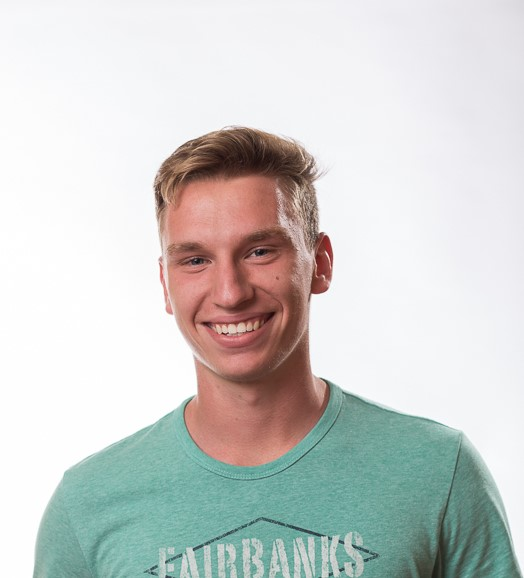
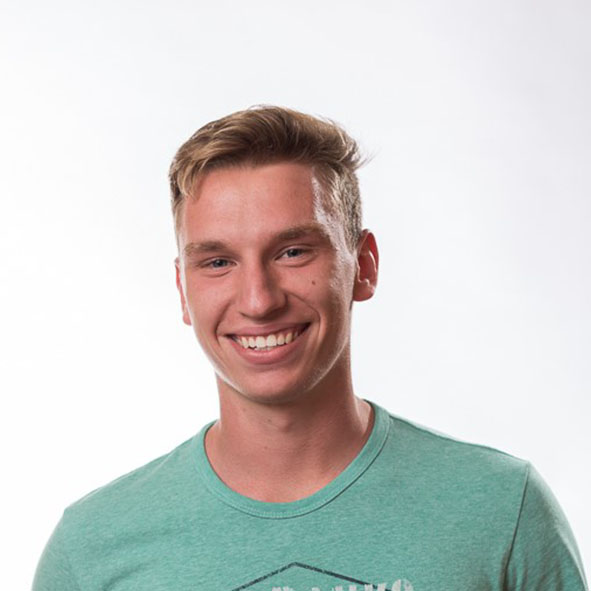
changees

Changed region(s): [[0.0305, 0.1557, 1.0, 1.0], [0.1221, 0.9343, 0.2443, 1.0], [0.2137, 0.8408, 0.3053, 0.872]]

diff --git a/about.html b/about.html
@@ -23,10 +23,14 @@
 
         <!-- ********** INTRODUCTION ********** -->
         <section>
+          <div class="photo">
+            <img src="images/portrait.jpg">
+          </div>
           <div class="introduction">
             <h2>A few words about me...</h2>
             <p>Ladislav Uncovsky. This is my whole name, but everyone just calls me Laco. Not sure how to say it? No worries, it’s simply /la-tzo/.</p>
-            <p>I was born and raised in the heart of Europe – Slovakia, although now you can spot me biking or munching on stroopwafels in The Netherlands. As a second-year undergraduate student at THUAS, I am now gaining hands on experience as an intern.</p>
+            <p>I was born and raised in the heart of Europe – Slovakia, although now you can spot me biking or munching on stroopwafels in The Netherlands. As a second-year undergraduate student at THUAS, I am now gaining hands on experience as an intern. Working at the <b>Digital Society School</b> in Amsterdam made me realize how as an UX designer I can help solve global challenges. As an example, I can use my current project, where me together with my team are working on a project in the lights of UN Sustainable Development Goals. The project is about reducing waste at the University of Amsterdam, you can read more about it <span>here</span>.</p>
+            <p>In the past year, I was also gaining experience as an intern in a design studio located in Bratislava called <b>Lighting Beetle</b>, where I was helping on projects for clients such as Orange, HB Reavis or Asseco.</p>
           </div>
         </section>
 
@@ -37,13 +41,12 @@
             <p>Throughout my studies of User Experience Design, I have had the chance to look
               into all parts of design thinking process and further utilize said parts in numerous
               group work.<br><br> For instance, when working on project – Design for Emotion, I have
-              successfully implemented all steps of design thinking, while particularly focusing on
+              successfully implemented all steps of design thinking process, while particularly focusing on
               prototyping.<br><br> As I am particularly intrigued by prototyping, beyond my university
               studies, I am further extending my skills by following a Adobe XD Challenges course.
               Hence, I believe I am quite experienced with low to high fidelity designing and
               prototyping, which is reflected in excellent project grades.<br><br> Both in school and my free
-              time I am learning programming languages such as HTML/CSS, JavaScript and
-              Processing. The basic knowledge of previously mentioned languages, allows me to
+              time I am learning programming languages such as HTML/CSS or JavaScript. The basic knowledge of previously mentioned languages, allows me to
               have clearer perception of technologies, surrounding us.</p>
           </div>
         </section>

diff --git a/css/styles.css b/css/styles.css
@@ -1,11 +1,9 @@
 /*
 COLOR PALETTE
-even lighter green - #f0fff3
-light green - #c6f1e7
-darker green - #137083
-gray - #59606d
-white - #eaeaea
+black - #393b44
+white - #f1f3f8
 orange - #ee6f57
+
 */
 
 /* Global styles -------------------------*/
@@ -301,10 +299,19 @@ footer {
   }
 }
 
-/* --------------------------------------------------------
+/* -----------------------------------------------------------------------------
 ---------- ABOUT PAGE */
 
 /* ----- INTRODUCTION ----- */
+.photo {
+  display: flex;
+  justify-content: center;
+}
+
+.photo img {
+  border-radius: 50%;
+}
+
 .introduction {
   display: grid;
   width: 60%;
@@ -344,7 +351,6 @@ footer {
 
 /* ----- HOBBIES ----- */
 .hobbies h2 {
-  width: 50%;
   margin: 0 auto;
   margin-top: 30px;
 }
@@ -364,23 +370,30 @@ footer {
 
 /* ----- RESPONSIVE ----- */
 @media screen and (min-width: 770px) {
+  .photo img {
+    width: 20%;
+  }
+
   .skills-section {
     padding-bottom: 20px;
   }
 
   .hobbies {
     padding-bottom: 30px;
+    width: 60%;
+    margin: 0 auto;
   }
 
   .hobbies-items {
     display: grid;
     grid-template-columns: 1fr 1fr;
     grid-template-rows: 1fr 1fr;
-    width: 60%;
+    width: 70%;
     margin: 0 auto;
     margin-top: 40px;
-    grid-column-gap: 80px;
+    grid-column-gap: 100px;
     grid-row-gap: 70px;
+    justify-content: center;
   }
 
   .hobby-name {
